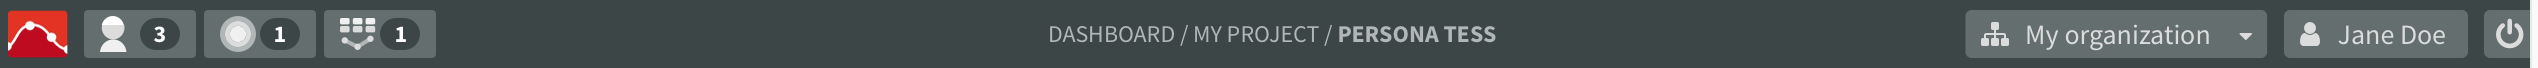
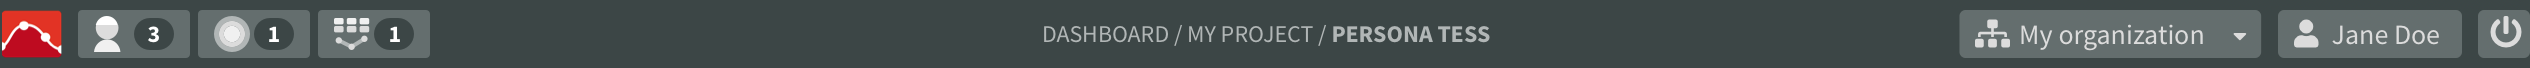
stylistic/final fixes

diff --git a/src/components/Persona.js b/src/components/Persona.js
@@ -2,65 +2,61 @@ import React from 'react';
 import { Grid } from 'semantic-ui-react';
 import { Element } from './Element';
 import girl from '../img/girl.png';
-import { ONLY_IMAGE_TYPE, WIDTH_THIN, WIDTH_WIDE, NAME_VAR, INITIALS_VAR } from '../constants';
+import { ONLY_IMAGE_TYPE, WIDTH_THIN, WIDTH_WIDE, NAME_VAR, INITIALS_VAR, TITLE } from '../constants';
 
-export class Persona extends React.Component {
-  render() {
-    const { name, items, changeAttr, onChange, initials, deleteItem, onBlur } = this.props;
-
-    const headerElems = [
-      {
-        image: girl,
-        imageClass: 'square',
-        field_type: ONLY_IMAGE_TYPE
-      },
-      {
-        title: 'Persona Name',
-        data: name,
-        changeAttr: args => onChange(Object.assign({}, args, { name: NAME_VAR }))
-      },
-      {
-        title: 'short name',
-        data: initials,
-        changeAttr: args => onChange(Object.assign({}, args, { name: INITIALS_VAR }))
-      }
-    ].map((e, i) =>
-      <Element
-        key={i}
-        {...e}
-        fixed
-        onBlur={() => onBlur()}
-      />)
-    const elements = items.map((e, i) => <Element
-      key={`${i}-${e.width === WIDTH_WIDE ? 'l' : 'r'}`}
+export const Persona = ({ name, items, changeAttr, onChange, initials, deleteItem, onBlur, setClicked }) => {
+  const headerElems = [
+    {
+      image: girl,
+      imageClass: 'square',
+      field_type: ONLY_IMAGE_TYPE
+    },
+    {
+      title: 'Persona Name',
+      data: name,
+      changeAttr: args => args.attr === TITLE ? Function.prototype : onChange(Object.assign({}, args, { name: NAME_VAR }))
+    },
+    {
+      title: 'short name',
+      data: initials,
+      changeAttr: args => args.attr === TITLE ? Function.prototype : onChange(Object.assign({}, args, { name: INITIALS_VAR }))
+    }
+  ].map((e, i) =>
+    <Element
+      key={i}
       {...e}
-      index={i}
       fixed
-      changeAttr={(args) => changeAttr(args)}
-      deleteItem={args => deleteItem(args)}
       onBlur={() => onBlur()}
-      clickElement={(confirm) => e.isTransition ? this.props.setClicked(e, confirm) : Function.prototype}
     />)
-    const leftGridElements = elements.filter(e => (!e.props.width || e.props.width === WIDTH_THIN))
-    const rightGridElements = elements.filter(e => (e.props.width === WIDTH_WIDE))
-    return (
-      <Grid>
-        <Grid.Column width={16}>
-          <Grid.Row className="grid-header">
-            {headerElems}
-          </Grid.Row>
-        </Grid.Column>
-        <Grid.Column
-          width={4}
-        >
-          {leftGridElements}
-        </Grid.Column>
-        <Grid.Column
-          width={12}
-        >
-          {rightGridElements}
-        </Grid.Column>
-      </Grid>
-    );
-  }
-};
+  const elements = items.map((e, i) => <Element
+    key={`${i}-${e.width === WIDTH_WIDE ? 'l' : 'r'}`}
+    {...e}
+    index={i}
+    fixed
+    changeAttr={(args) => changeAttr(args)}
+    deleteItem={args => deleteItem(args)}
+    onBlur={() => onBlur()}
+    clickElement={(confirm) => e.isTransition ? setClicked(e, confirm) : Function.prototype}
+  />)
+  const leftGridElements = elements.filter(e => (!e.props.width || e.props.width === WIDTH_THIN))
+  const rightGridElements = elements.filter(e => (e.props.width === WIDTH_WIDE))
+  return (
+    <Grid>
+      <Grid.Column width={16}>
+        <Grid.Row className="grid-header">
+          {headerElems}
+        </Grid.Row>
+      </Grid.Column>
+      <Grid.Column
+        width={4}
+      >
+        {leftGridElements}
+      </Grid.Column>
+      <Grid.Column
+        width={12}
+      >
+        {rightGridElements}
+      </Grid.Column>
+    </Grid>
+  );
+}

diff --git a/src/components/Element.js b/src/components/Element.js
@@ -1,6 +1,6 @@
 import React from 'react';
 import { Card, Input, Form, Image } from 'semantic-ui-react';
-import { LONG_TEXT_TYPE, ONLY_IMAGE_TYPE, IMAGE_TYPE } from '../constants';
+import { LONG_TEXT_TYPE, ONLY_IMAGE_TYPE, IMAGE_TYPE, TITLE, DATA } from '../constants';
 import markup from '../img/markup.png';
 
 export class Element extends React.Component {
@@ -19,27 +19,25 @@ export class Element extends React.Component {
     const { isImage, isOnlyImage, mouseOver } = this.state;
 
     const textInput = field_type === LONG_TEXT_TYPE
-      ? <Card.Content>
+      ? <Form>
         <Image src={markup} />
-        <Form>
-          <Form.TextArea
-            onBlur={eleOnBlur}
-            value={data}
-            error={!data}
-            rows={2}
-            disabled={disabled || !fixed}
-            className="element-input"
-            onChange={({target: { value }}) => changeAttr({ title, attr: 'data', value, index })}
-          />
-        </Form>
-      </Card.Content>
+        <Form.TextArea
+          onBlur={eleOnBlur}
+          value={data}
+          error={!data}
+          rows={2}
+          disabled={disabled || !fixed}
+          className="element-input"
+          onChange={({target: { value }}) => changeAttr({ title, attr: DATA, value, index })}
+        />
+      </Form>
       : <Input
         onBlur={eleOnBlur}
         error={!data}
         value={data}
         disabled={disabled || !fixed}
         className="element-input"
-        onChange={({target: { value }}) => changeAttr({ title, attr: 'data', value, index })}
+        onChange={({target: { value }}) => changeAttr({ title, attr: DATA, value, index })}
       />;
 
     let content = textInput;
@@ -66,7 +64,7 @@ export class Element extends React.Component {
               error={!title}
               value={title.toUpperCase()}
               disabled={disabled}
-              onChange={({target: { value }}) => changeAttr({ title, attr: 'title', value, index })}
+              onChange={({target: { value }}) => changeAttr({ title, attr: TITLE, value, index })}
             />
 
             {!disabled &&

diff --git a/src/components/SideBarElement.js b/src/components/SideBarElement.js
@@ -2,28 +2,25 @@ import React from 'react';
 import { Card, Header } from 'semantic-ui-react';
 import { LONG_TEXT_TYPE, LONG_TEXT_DEFAULT } from '../constants';
 
-export class SideBarElement extends React.Component {
-  render() {
-    const { clickElement, field_type } = this.props;
-    const textInput = field_type === LONG_TEXT_TYPE
-      ? <p>{LONG_TEXT_DEFAULT}</p>
-      : <Header as="h2">ABC</Header>
+export const SideBarElement = ({ clickElement, field_type }) => {
+  const textInput = field_type === LONG_TEXT_TYPE
+    ? <p>{LONG_TEXT_DEFAULT}</p>
+    : <Header as="h2">ABC</Header>
 
-    let content = textInput;
+  let content = textInput;
 
-    let component = (
-      <Card
-        className="sidebar-card"
-        onClick={() => clickElement()}
-      >
-        <Card.Content>
-          {content}
-          <Header as="h4">
-            {field_type !== LONG_TEXT_TYPE ? 'short text'.toUpperCase() : 'long text'.toUpperCase()}
-          </Header>
-        </Card.Content>
-      </Card>
-    );
-    return component;
-  }
-};
+  let component = (
+    <Card
+      className="sidebar-card"
+      onClick={() => clickElement()}
+    >
+      <Card.Content>
+        {content}
+        <Header as="h4">
+          {field_type !== LONG_TEXT_TYPE ? 'short text'.toUpperCase() : 'long text'.toUpperCase()}
+        </Header>
+      </Card.Content>
+    </Card>
+  );
+  return component;
+}

diff --git a/src/App.css b/src/App.css
@@ -13,7 +13,7 @@
 }
 
 .top-bar-bg {
-  background-color: #3B4545;
+  background-color: #3C4646;
   width: 100%;
 }
 
@@ -50,7 +50,7 @@
 }
 
 .bottom-bar-bg img.align-right {
-  width: 40%;
+  height: 57px;
 }
 
 .bottom-bar-bg div.input.right i.far.fa-edit{
@@ -112,12 +112,16 @@
 }
 
 .sidebar {
-  width: 35%;
+  width: 30%;
   position: absolute;
-  top: 95px;
-  right: 0;
-  bottom: 0;
+  top: 12%;
+  right: 15px; /* for scrollbar */
   background-color: #EFEFEF;
+  bottom: 0;
+}
+
+.sidebar .hidden.ui.grid {
+  display: none;
 }
 
 .App .main .grid .row {
@@ -143,12 +147,12 @@
   height: 13px;
   width: 304px;
   color: #646E6E;
-  font-family: "Source Sans Pro";
   font-size: 12px;
   font-weight: 600;
   letter-spacing: 0.8px;
   line-height: 13px;
   cursor: pointer;
+  margin-right: 0;
 }
 
 .App .sidebar .grid .row.grid-header span{
@@ -192,9 +196,10 @@ img.ui.square {
 }
 
 .App .main .grid .column .ui.card .content {
-  padding: .5em 1rem;
+  padding: 0 1rem .5em;
   border-top: none;
 }
+
 .App .main .grid .row .ui.card .content {
   padding: .5em 1rem;
   border-top: none;

diff --git a/src/components/Header.js b/src/components/Header.js
@@ -22,11 +22,11 @@ export class Header extends React.Component {
 
   render() {
     const {disabled} = this.state;
-    const { name, onChangeName } = this.props;
+    const { name, onChangeName, onBlur } = this.props;
     return (
       <header className="App-header">
         <div className="top-bar-bg">
-          <img src={topbar} width="100%" />
+          <img src={topbar} width="100%"/>
         </div>
         <div className="bottom-bar-bg">
           <img src={lowbarLft} className="align-left no-rt-margin" />
@@ -36,6 +36,7 @@ export class Header extends React.Component {
             className="align-left"
             disabled={disabled}
             ref={r => this.handleRef(r)}
+            onBlur={() => onBlur()}
             label={
               <i
                 className = "far fa-edit"

diff --git a/src/components/Sidebar.js b/src/components/Sidebar.js
@@ -16,7 +16,7 @@ export class Sidebar extends React.Component {
     return (
       <Grid>
         <Grid.Row
-          className="grid-header"
+          className={`grid-header ${showSidebar ? '' : 'hidden'}`}
           onClick={() => !showSidebar ? this.setState({ showSidebar: true }) : Function.prototype}
         >
           <span>{'Add Element'.toUpperCase()}</span>
@@ -31,7 +31,7 @@ export class Sidebar extends React.Component {
           <Grid.Row className="lb">
             <Header as="h5">
             Click or drag & drop one of the element types below to add
-it to the persona.
+it to the persona. <br/>
 Click on the  <i className="fa fa-cog"/>  icon of each element to edit its settings.
 You can reorder the elements by dragging them.
             </Header>

diff --git a/src/App.js b/src/App.js
@@ -87,7 +87,11 @@ class App extends Component {
     const {items, availItems, clientX, clientY, inTransition, name, initials} = this.state;
     return (
       <div className="App">
-        <Header name={name} onChangeName={({ value }) => this.changeStateVar({name: NAME_VAR, value})}/>
+        <Header
+          name={name}
+          onChangeName={({ value }) => this.changeStateVar({name: NAME_VAR, value})}
+          onBlur={() => this.saveState()}
+        />
         <div className="main">
           {inTransition &&
             <div className="overlay" onClick={() => this.clearInTransition()}></div>

diff --git a/src/constants.js b/src/constants.js
@@ -6,5 +6,7 @@ export const WIDTH_THIN = 'thin';
 export const WIDTH_WIDE = 'wide';
 export const NAME_VAR = 'name';
 export const INITIALS_VAR = 'initials';
+export const TITLE = 'title';
+export const DATA = 'data';
 
 export const LONG_TEXT_DEFAULT = 'Lorem ipsum dolor sit amet, consectetur adipiscing elit, sed do eiusmod tempor incididunt ut labore et dolore magna aliqua.';

diff --git a/public/index.html b/public/index.html
@@ -20,7 +20,7 @@
       work correctly both with client-side routing and a non-root public URL.
       Learn how to configure a non-root public URL by running `npm run build`.
     -->
-    <title>React App</title>
+    <title>MTM Proj</title>
   </head>
   <body>
     <noscript>

diff --git a/src/mock/initialItems.js b/src/mock/initialItems.js
@@ -20,7 +20,7 @@ export const initialItems = [
     title: 'quote',
     field_type: LONG_TEXT_TYPE,
     width: WIDTH_WIDE,
-    data: 'Something about life...'
+    data: 'And if thou gaze long into an abyss, the abyss will also gaze into thee.'
   },
   {
     title: 'age',

diff --git a/src/index.css b/src/index.css
@@ -11,9 +11,3 @@ html body {
   width: 100vw;
 
 }
-
-#root {
-  height: 100%;
-  background-color: #646E6E;
-  width: 100vw;
-}
